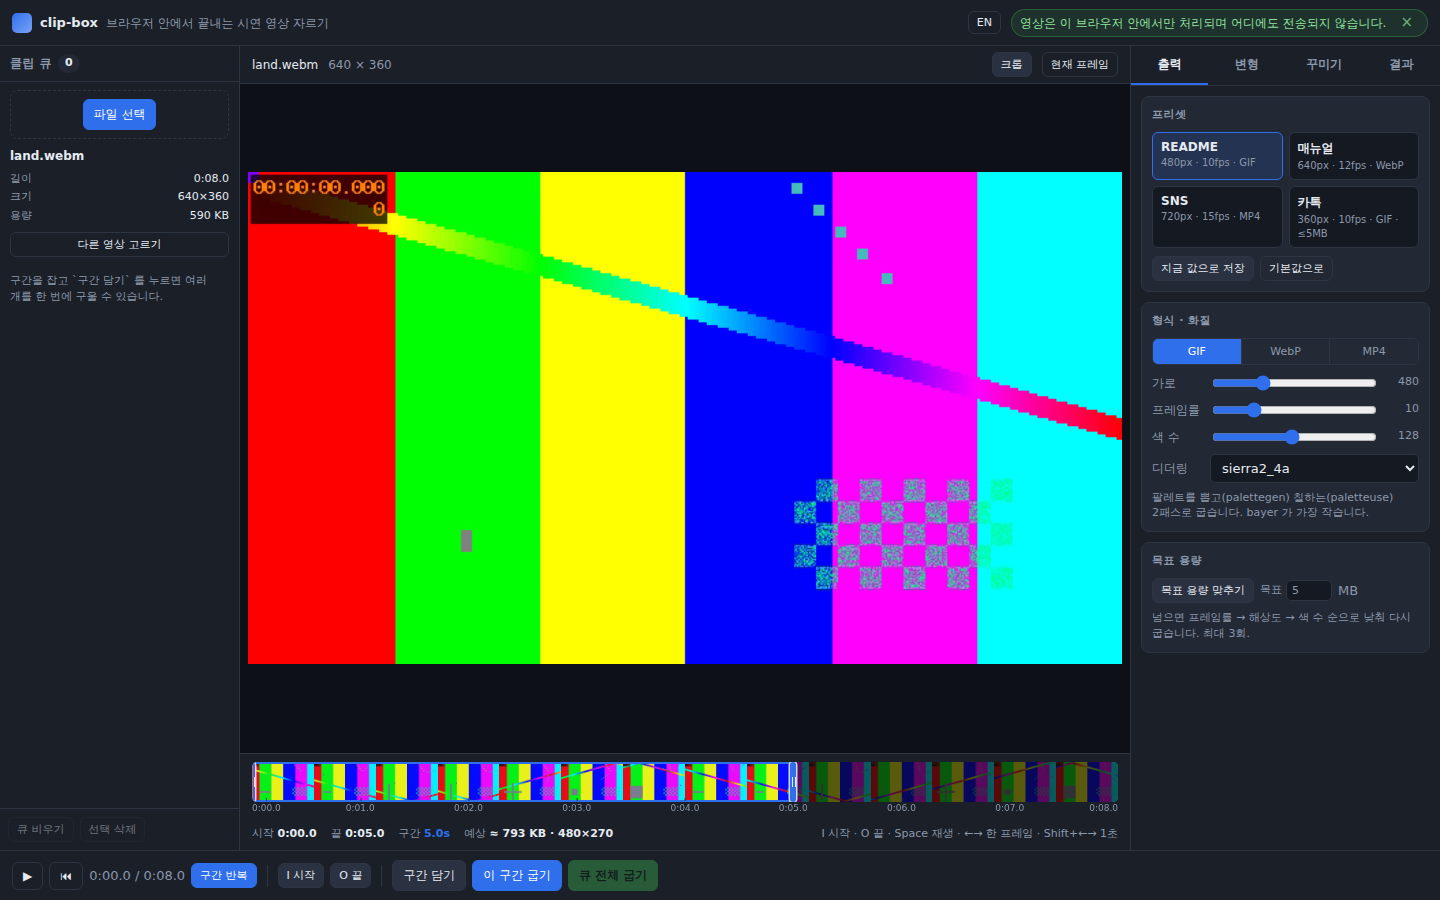
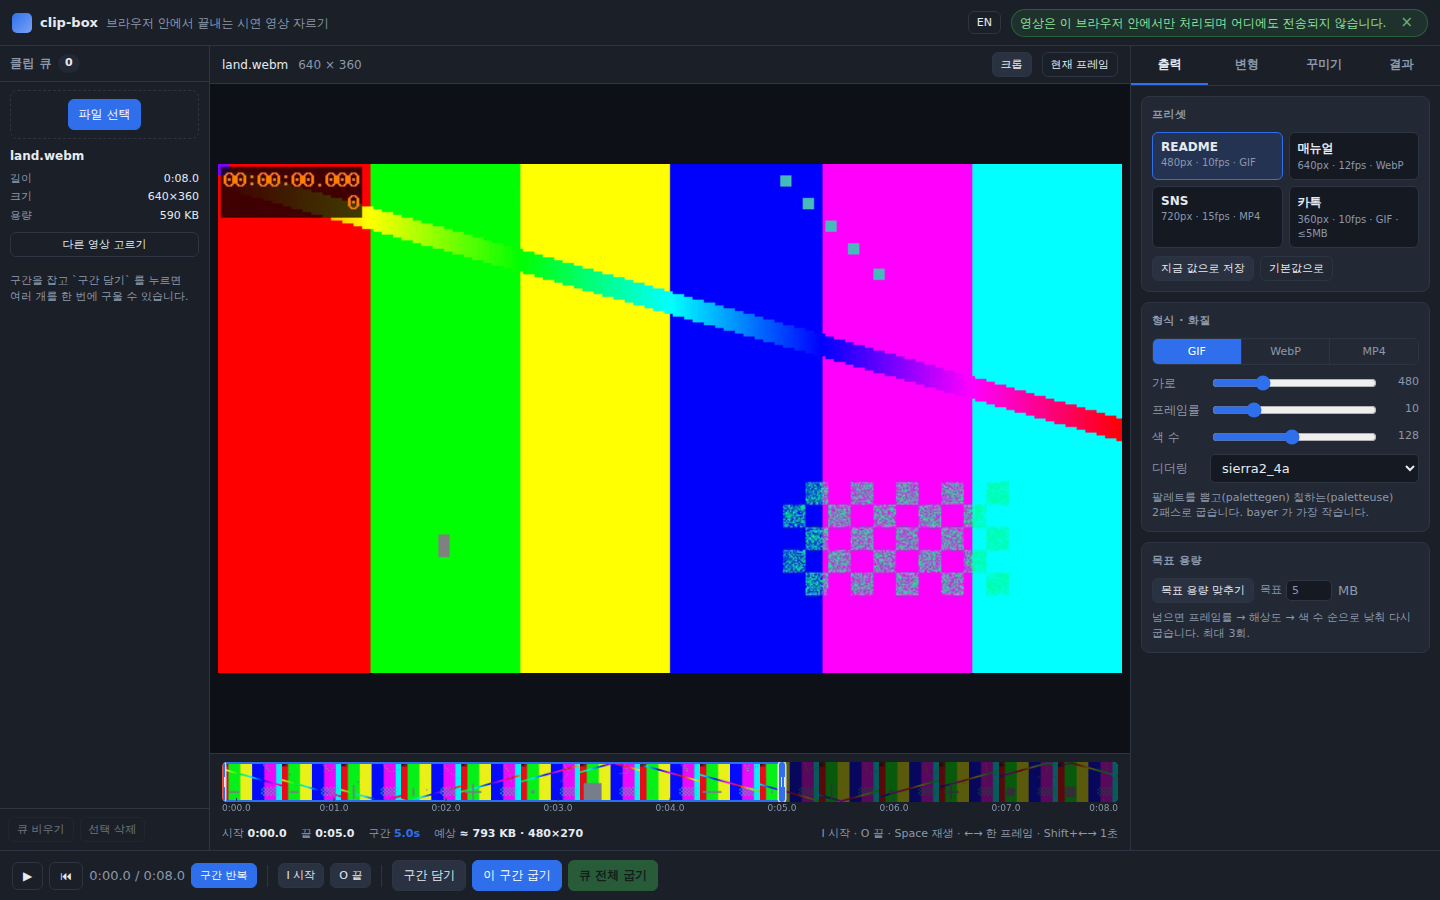
snap-box 와 디자인 대조: 남은 차이 2개를 없앴다
두 도구를 나란히 띄워 getComputedStyle 로 공통 부품 값을 재 봤다.
토큰 14개 + 부품 39종 중 처음엔 4개가 달랐는데, 두 개는 내 측정 실수였고
두 개는 진짜 차이였다.

측정 실수 (선택자를 잘못 집었다)
- `.btn` 으로 첫 요소를 집으니 snap-box 는 .btn.primary, clip-box 는
  .btn.tiny.ghost 가 잡혔다. 변형이 안 붙은 버튼을 집도록 고쳤다.
- `.row` 도 마찬가지로 clip-box 쪽에서 :last-child 가 잡혀
  margin-bottom 이 0 으로 나왔다.

진짜 차이 (고쳤다)
- --w-queue 를 240px 로 넓혀 놨던 것을 snap-box 와 같은 210px 로 되돌렸다.
  "영상 정보가 줄바꿈된다" 고 적어 뒀는데, 이름/값 두 칸(dl)으로 짜 놓은
  지금 구조에서는 210px 에서도 넘치는 요소가 0개다. 근거 없는 오버라이드였다.
- 영상이 없을 때 빈 필름스트립 캔버스가 회색 상자로 떠 있었다.
  #stageFoot 를 영상이 걸릴 때까지 감춘다. 빈 화면이 snap-box 와 같아졌다.

남은 차이는 #cropBar 안의 .seg 하나뿐인데, 가로 바에 인라인으로 들어가는
자리라 margin-bottom 을 0 으로 둔 것이고 style.css 에 주석으로 남겨 뒀다.

대조 결과: 53 항목 일치 / 0 불일치.
base.css 와 snap-box style.css 의 공통 선택자 92개도 값이 전부 같다.
전수시험은 두 경로 모두 95/95 그대로.

DESIGN.md 에 대조 방법(선택자를 정확히 집어야 하는 이유 포함)과
폭 토큰을 함부로 바꾸지 말라는 규칙을 적어 뒀다.

Claude-Session: https://claude.ai/code/session_01P6FQarhjzc1txv47JWVSDu

diff --git a/css/style.css b/css/style.css
@@ -7,10 +7,9 @@
    자세한 규칙은 docs/DESIGN.md.
    ═══════════════════════════════════════════════════════════════════════ */
 
-/* 왼쪽 패널만 30px 넓혔다.
-   snap-box 의 큐는 썸네일 + 파일명 한 줄이면 되지만, clip-box 는 영상 정보
-   (길이 · 크기 · 용량)를 이름/값 두 칸으로 보여 줘야 해서 210px 로는 값이 줄바꿈된다. */
-:root{ --w-queue:240px; }
+/* 레이아웃 토큰은 하나도 바꾸지 않는다.
+   --w-queue 를 240px 로 넓혔다가 되돌렸다. 영상 정보를 이름/값 두 칸(dl)으로
+   짜 놓으면 210px 에서도 줄바꿈이 없다 (실측: 넘치는 요소 0개). */
 
 /* ── 왼쪽: 영상 정보 카드 ── */
 /* 영상을 이미 불러왔으면 드롭존은 자리를 비켜 준다.

diff --git a/js/timeline.js b/js/timeline.js
@@ -119,6 +119,8 @@ export async function setVideo(url, over) {
   $('cropBar').hidden = true;
   $('videoBox').classList.add('on');
   $('stageEmpty').hidden = true;
+  // 영상이 없을 때 빈 필름스트립 캔버스가 회색 상자로 떠 보여서, 통째로 감춰 둔다
+  $('stageFoot').hidden = false;
 
   layout();
   buildThumbs().catch(() => {});
@@ -134,6 +136,7 @@ export function clearVideo() {
   TL.duration = 0; TL.start = 0; TL.end = 0; TL.crop = null; TL.cropOn = false;
   $('videoBox').classList.remove('on');
   $('stageEmpty').hidden = false;
+  $('stageFoot').hidden = true;
   $('cropLayer').hidden = true;
   $('cropBar').hidden = true;
 }

diff --git a/index.html b/index.html
@@ -96,7 +96,7 @@
       <button id="btnCropClear" class="btn tiny ghost" data-i18n="stage.cropClear"></button>
     </div>
 
-    <div id="stageFoot">
+    <div id="stageFoot" hidden>
       <div id="timeline">
         <canvas id="tlThumbs"></canvas>
         <div id="tlTrack">

diff --git a/docs/DESIGN.md b/docs/DESIGN.md
@@ -122,8 +122,10 @@ Font Awesome 같은 아이콘 폰트를 넣지 않는다. 버튼은 **글자 라
 
 - 탭은 **4개로 고정**이다 (`grid-template-columns:repeat(4,1fr)`). 더 필요하면 묶어서 줄인다.
 - 실행 버튼은 오른쪽 패널이 아니라 **아래 바**에 둔다. 탭을 옮겨도 늘 같은 자리에 있어야 한다.
-- 폭은 토큰(`--w-queue`, `--w-tool`)으로만 바꾼다. 도구 사정으로 바꿨으면 `style.css`
-  맨 위에 **왜 바꿨는지 주석을 남긴다.**
+- 폭 토큰(`--w-queue`, `--w-tool`)은 **되도록 건드리지 않는다.** 좁아 보이면 먼저
+  내용을 줄여 본다 — clip-box 는 영상 정보를 이름/값 두 칸(`<dl>`)으로 짜서
+  `--w-queue:210px` 그대로 들어갔다. 그래도 못 맞추겠으면 바꾸되 `style.css` 맨 위에
+  **왜 바꿨는지, 무엇을 먼저 시도했는지** 주석으로 남긴다.
 - 데스크톱 전용이다. `<meta name="viewport" content="width=1280">`. 모바일 대응은 하지 않는다.
 
 ---
@@ -243,6 +245,26 @@ clip-box 는 `#stagePane` 밑에 **타임라인**(`#stageFoot`)을 더했다.
 4. 취소/실패 뒤에 다시 되는지
 5. 한 → 영 전환 뒤에도 화면이 안 깨지는지
 6. 빈 상태 · 작업 중 · 결과 있음 세 장면 스크린샷
+
+### 디자인 대조도 자동으로
+
+"같아 보인다" 는 눈으로 믿지 말고 재야 한다. 두 도구를 나란히 띄워
+`getComputedStyle` 로 공통 부품의 값을 비교한다. 재는 것:
+
+- **토큰 14개** — `--bg` `--pane` `--line` `--accent` … `--h-top` `--h-bot` `--w-tool`
+- **공통 부품 39개** — `body` `#topbar` `.privacy` `#layout` `.pane-head` `.badge`
+  `#dropZone` `#stageHead` `#tabs` `.tab` `.grp` `.row` `.hint` `.btn`(변형별)
+  `.seg` `.seg-b` `#bottombar` `#progressBar` `.toast` `#busy` `.spin`
+- **동봉 웹폰트 개수** (둘 다 0이어야 한다)
+
+부품을 집을 때 **선택자를 정확히 쓴다.** `.btn` 으로 첫 요소를 집으면 한쪽은
+`.btn.primary`, 다른 쪽은 `.btn.tiny.ghost` 가 잡혀서 없는 차이가 보인다.
+변형이 안 붙은 것을 집어야 한다
+(`button.btn:not(.primary):not(.accent):not(.ghost):not(.tiny)`).
+`.row` 도 `:last-child{margin-bottom:0}` 때문에 마지막이 아닌 것을 집어야 한다.
+
+**마지막 대조 결과 (2026-09): 53 항목 일치 / 0 불일치.**
+`css/base.css` 와 snap-box `css/style.css` 의 공통 선택자 92개도 값이 전부 같다.
 
 ---
 

diff --git a/README.md b/README.md
@@ -175,6 +175,17 @@ clip-box/
 기준은 [`docs/DESIGN.md`](docs/DESIGN.md) 에 적어 두었고, `css/base.css` 는 두 도구가
 같은 내용을 씁니다. 새 도구를 만들 때도 이 두 파일부터 가져다 씁니다.
 
+눈으로만 맞춘 것이 아니라 두 도구를 나란히 띄워 `getComputedStyle` 로 재서 맞췄습니다.
+
+| 대조한 것 | 결과 |
+|---|---|
+| 색·크기 토큰 14개 | 전부 일치 |
+| 공통 부품 계산된 스타일 39종 | 전부 일치 |
+| `base.css` ↔ snap-box `style.css` 공통 선택자 92개 | 값 전부 일치 |
+| 동봉 웹폰트 | 둘 다 0개 |
+
+![snap-box / clip-box 빈 화면](docs/screenshot-empty.png)
+
 ---
 
 ## 쓴 라이브러리 · 라이선스
